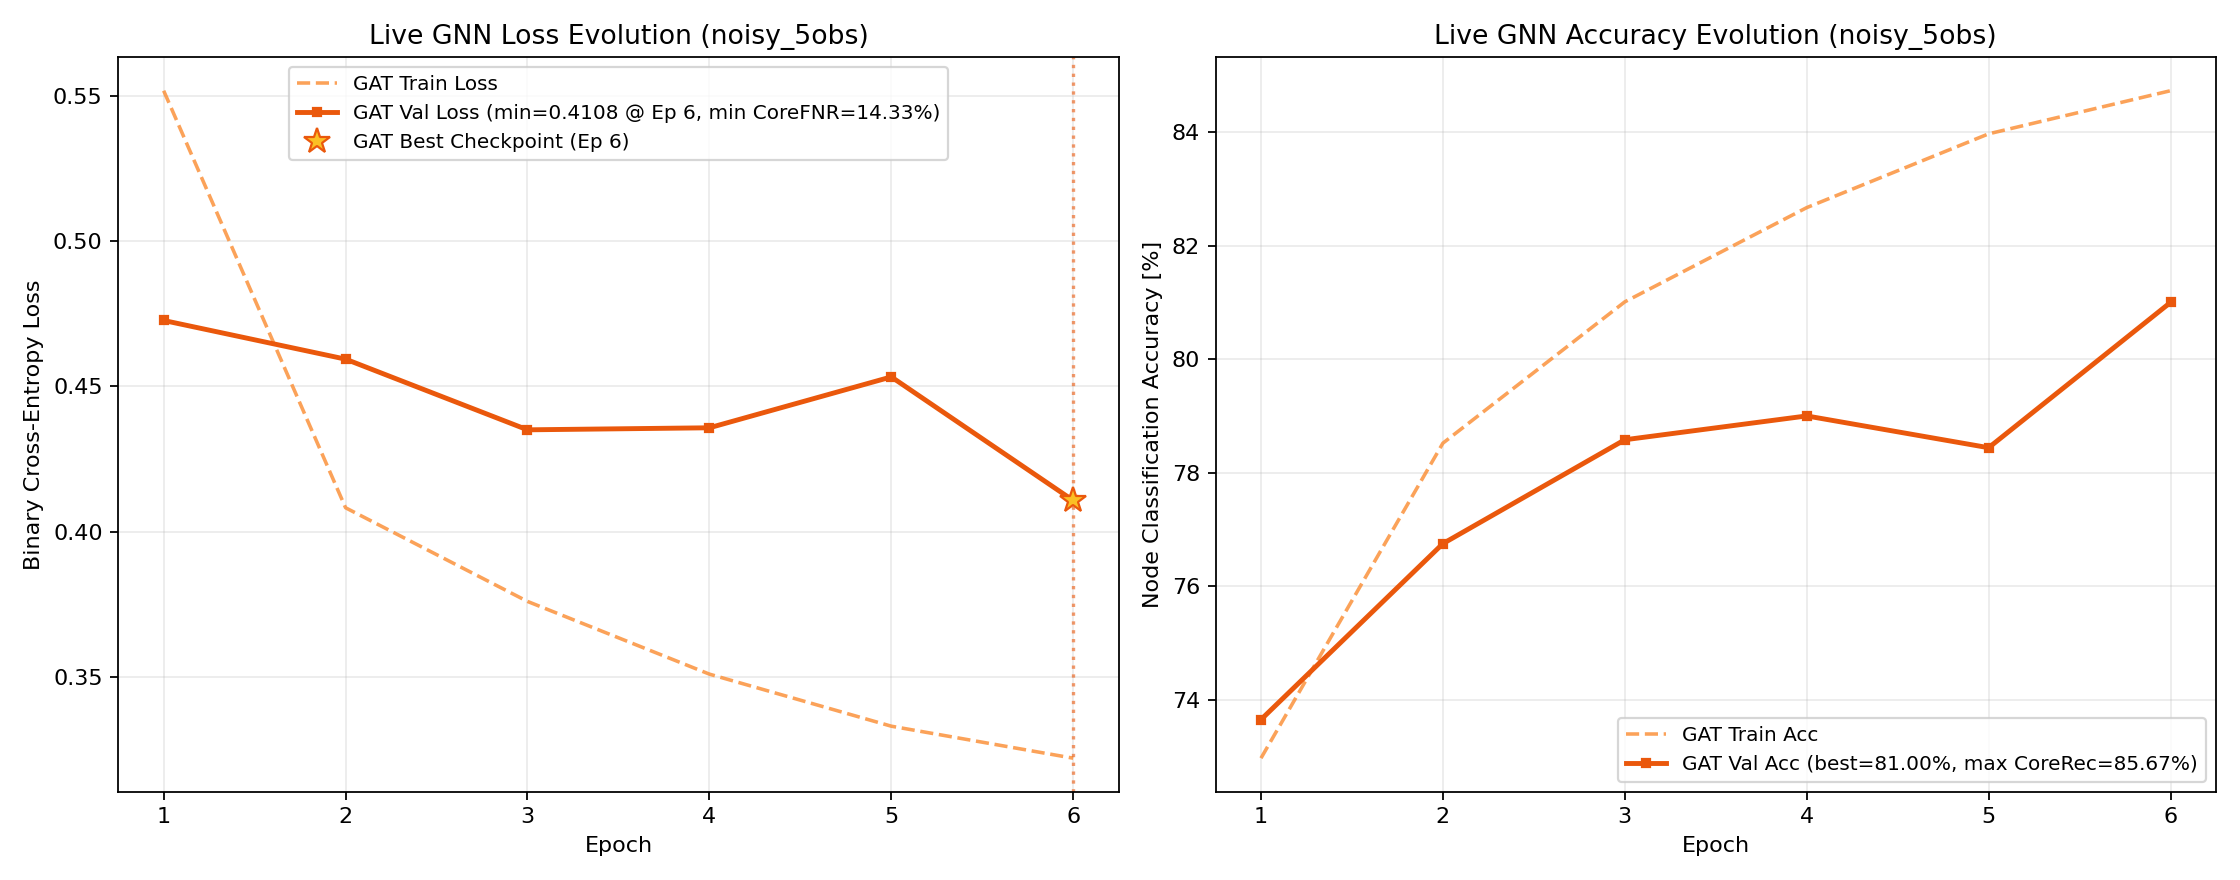
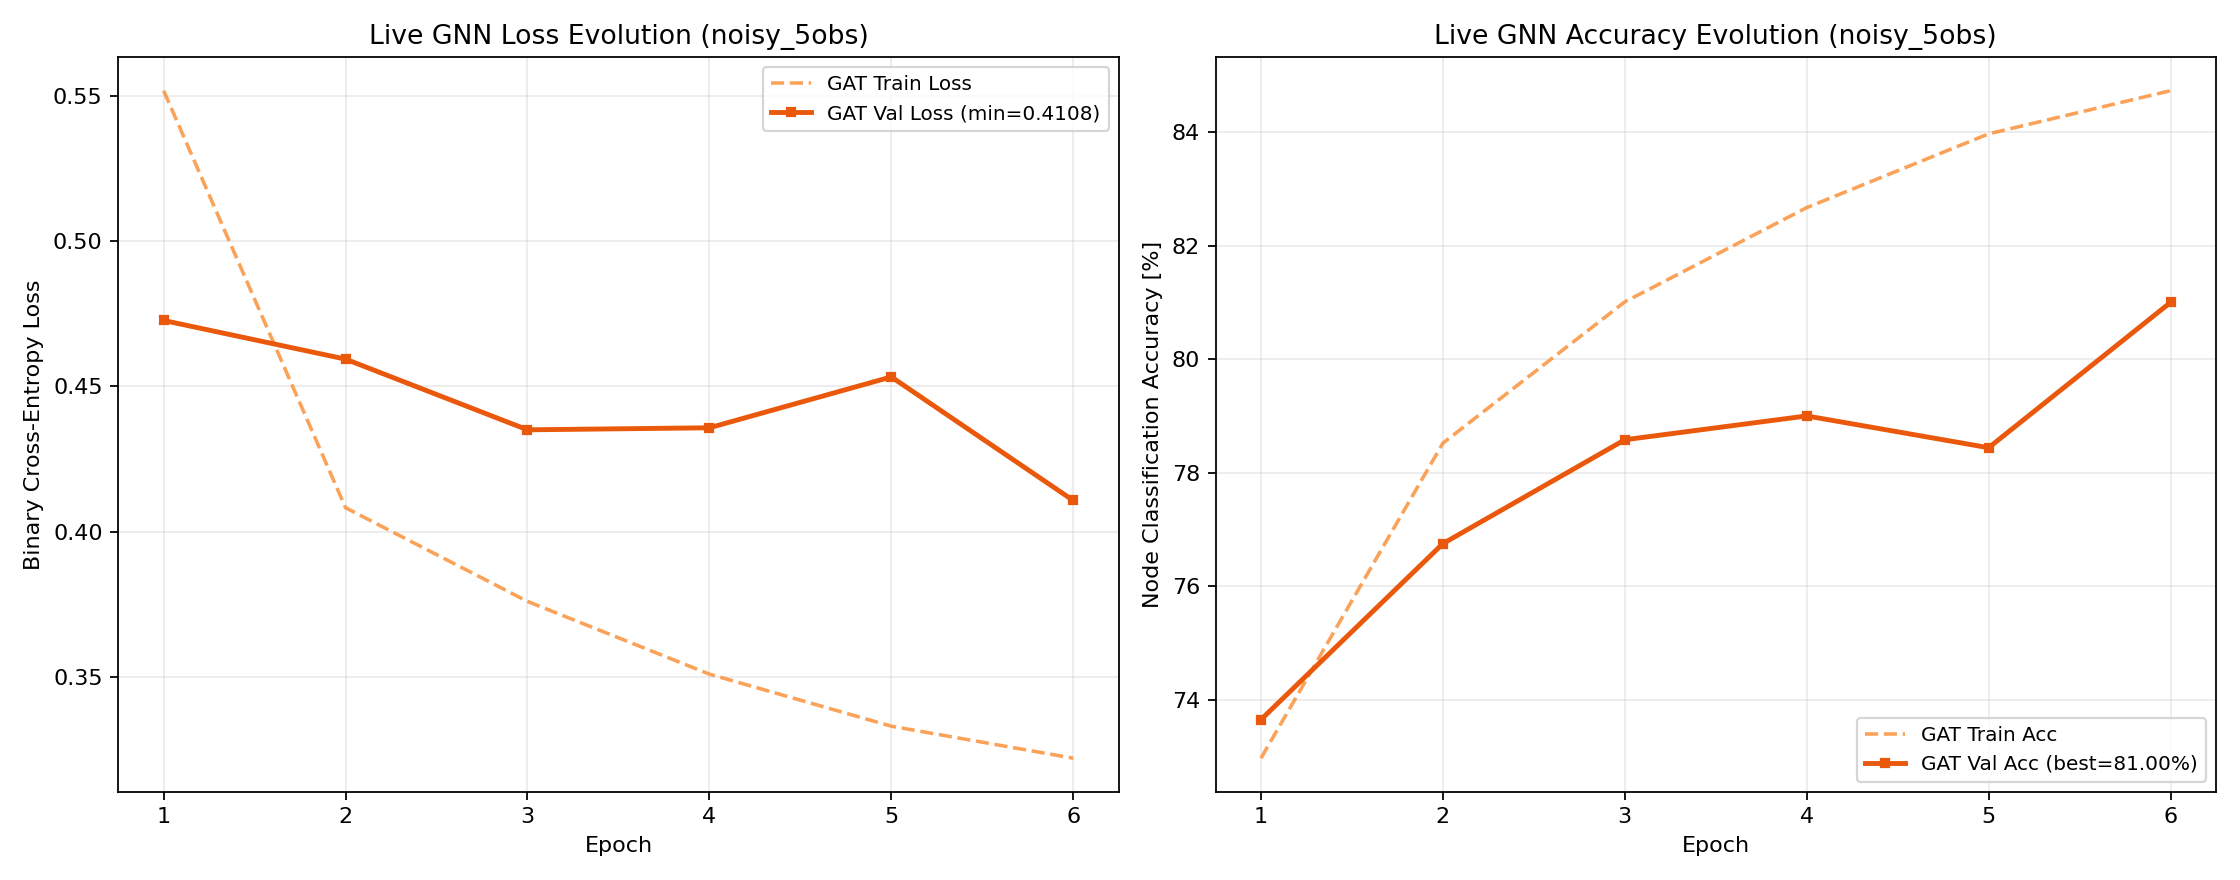
Update Study 2 live status and figures (2026-11-14 06:07)

Changed region(s): [[0.125, 0.0614, 0.5, 0.1841], [0.7188, 0.7977, 0.9688, 0.8898], [0.4688, 0.5523, 0.5, 0.583]]

diff --git a/LIVE_STATUS.md b/LIVE_STATUS.md
@@ -1,17 +1,16 @@
 # Live Pipeline Status on Jed
 
 ```text
-[2026-11-14 06:07:14] Study 2 Pipeline Status on Jed
+[2026-11-14 06:07:27] Study 2 Pipeline Status on Jed
 - Step 1 (Plummer ICs): 81 / 81 ready
 - Step 2 (SWIFT Runs): 81 / 81 completed (101 snapshots)
 - Step 3 (Observables): Labels=81/81 | Clean=81/81 | GaiaNoisy=81/81
 - Step 4 (5D Graphs): Clean=81/81 | GaiaNoisy=81/81
 - Step 5/6 Live GNN Training Progress:
-  * clean_5obs/training_metrics_gat_clean.log: Ep 045 | Train 0.1338 (94.72%) | Val 0.2092 (91.96%, Best=91.99%) | CoreFNR: 11.06% (min=8.41%) | Test=91.43%
+  * clean_5obs/training_metrics_gat_clean.log: Ep 045 | Train 0.1338 (94.72%) | Val 0.2092 (91.96%, Best=91.99%) | Test=91.43%
   * clean_5obs/training_metrics_gcn_clean.log: Ep 025 | Train 0.1136 (95.42%) | Val 0.1820 (92.33%, Best=92.33%) | Test=92.17%
   * legacy/clean_5obs_static_5rot/training_metrics_gcn_clean.log: Ep 025 | Train 0.1136 (95.42%) | Val 0.1820 (92.33%, Best=92.33%) | Test=92.17%
-  * noisy_5obs/training_metrics_gat_noisy.log: Ep 006 | Train 0.3222 (84.73%) | Val 0.4108 (81.00%, Best=81.00%) | CoreFNR: 22.08% (min=14.33%) | Test=In progress
-- Saved Model Checkpoints (.pth): 9 mirrored in GNN-jed/trained_models/study2/weights/
+  * noisy_5obs/training_metrics_gat_noisy.log: Ep 006 | Train 0.3222 (84.73%) | Val 0.4108 (81.00%, Best=81.00%) | Test=In progress
 
 SLURM Queue:
 JOBID  PARTITION                   NAME   ST       TIME  NODES NODELIST(REASON)
@@ -21,31 +20,17 @@ JOBID  PARTITION                   NAME   ST       TIME  NODES NODELIST(REASON)
 41146835_[0-4%   academic      Study2_Step6_4Obs   PD       0:00      2 (Dependency)
       41185010   academic Study2V2_Step4_BuildGr   PD       0:00      1 (Dependency)
 41185009_[0-80   academic Study2V2_Step3_Extract   PD       0:00      1 (Dependency)
-      41146834   academic   Study2_Step5_Train81    R 1-15:22:00      2 jst[317,320]
+      41146834   academic   Study2_Step5_Train81    R 1-15:21:59      2 jst[317,320]
 ```
 
 ## Live Neural Network Training Metrics
 
-| Experiment | Architecture | Latest Epoch | Train Loss | Train Acc | Val Loss | Val Acc | Best Val Acc | Core FNR | Test Acc | Test F1 |
-| :--- | :---: | :---: | :---: | :---: | :---: | :---: | :---: | :---: | :---: | :---: |
-| `clean_5obs` | **GAT** | 45 | 0.1338 | 94.72% | 0.2092 | 91.96% | **91.99%** | 9.22% (val: 8.41%) | **91.43%** | 0.8807 |
-| `clean_5obs` | **GCN** | 25 | 0.1136 | 95.42% | 0.1820 | 92.33% | **92.33%** | - | **92.17%** | 0.8886 |
-| `clean_5obs_static_5rot` | **GCN** | 25 | 0.1136 | 95.42% | 0.1820 | 92.33% | **92.33%** | - | **92.17%** | 0.8886 |
-| `noisy_5obs` | **GAT** | 6 | 0.3222 | 84.73% | 0.4108 | 81.00% | **81.00%** | 14.33% (val min) | **In progress** | - |
-
-## Saved Model Weights (`.pth` Checkpoints)
-
-| Checkpoint | Size | Experiment Path | Central Archive Mirror |
-| :--- | :---: | :--- | :--- |
-| `best_gat_clean.pth` | 361.2 KB | `GNN-jed/trained_models/study2/clean_5obs/best_gat_clean.pth` | `GNN-jed/trained_models/study2/weights/best_gat_clean.pth` |
-| `best_gat_clean_ep18_backup.pth` | 361.2 KB | `GNN-jed/trained_models/study2/clean_5obs/best_gat_clean_ep18_backup.pth` | `GNN-jed/trained_models/study2/weights/best_gat_clean_ep18_backup.pth` |
-| `best_gcn_clean.pth` | 120.0 KB | `GNN-jed/trained_models/study2/clean_5obs/best_gcn_clean.pth` | `GNN-jed/trained_models/study2/weights/best_gcn_clean.pth` |
-| `best_gat_clean_ep18_backup.pth` | 361.2 KB | `GNN-jed/trained_models/study2/legacy/clean_5obs_static_5rot/best_gat_clean_ep18_backup.pth` | `GNN-jed/trained_models/study2/weights/best_gat_clean_ep18_backup.pth` |
-| `best_gcn_clean.pth` | 120.0 KB | `GNN-jed/trained_models/study2/legacy/clean_5obs_static_5rot/best_gcn_clean.pth` | `GNN-jed/trained_models/study2/weights/best_gcn_clean.pth` |
-| `best_gat_clean.pth` | 361.2 KB | `GNN-jed/trained_models/study2/legacy/weights/best_gat_clean.pth` | `GNN-jed/trained_models/study2/weights/best_gat_clean.pth` |
-| `best_gat_clean_ep18_backup.pth` | 361.2 KB | `GNN-jed/trained_models/study2/legacy/weights/best_gat_clean_ep18_backup.pth` | `GNN-jed/trained_models/study2/weights/best_gat_clean_ep18_backup.pth` |
-| `best_gcn_clean.pth` | 120.0 KB | `GNN-jed/trained_models/study2/legacy/weights/best_gcn_clean.pth` | `GNN-jed/trained_models/study2/weights/best_gcn_clean.pth` |
-| `best_gat_noisy.pth` | 361.2 KB | `GNN-jed/trained_models/study2/noisy_5obs/best_gat_noisy.pth` | `GNN-jed/trained_models/study2/weights/best_gat_noisy.pth` |
+| Experiment | Architecture | Latest Epoch | Train Loss | Train Acc | Val Loss | Val Acc | Best Val Acc | Test Acc | Test F1 |
+| :--- | :---: | :---: | :---: | :---: | :---: | :---: | :---: | :---: | :---: |
+| `clean_5obs` | **GAT** | 45 | 0.1338 | 94.72% | 0.2092 | 91.96% | **91.99%** | **91.43%** | 0.8807 |
+| `clean_5obs` | **GCN** | 25 | 0.1136 | 95.42% | 0.1820 | 92.33% | **92.33%** | **92.17%** | 0.8886 |
+| `clean_5obs_static_5rot` | **GCN** | 25 | 0.1136 | 95.42% | 0.1820 | 92.33% | **92.33%** | **92.17%** | 0.8886 |
+| `noisy_5obs` | **GAT** | 6 | 0.3222 | 84.73% | 0.4108 | 81.00% | **81.00%** | **In progress** | - |
 
 ## Real-Time GNN Learning Curves (Loss & Accuracy Evolution)
 
